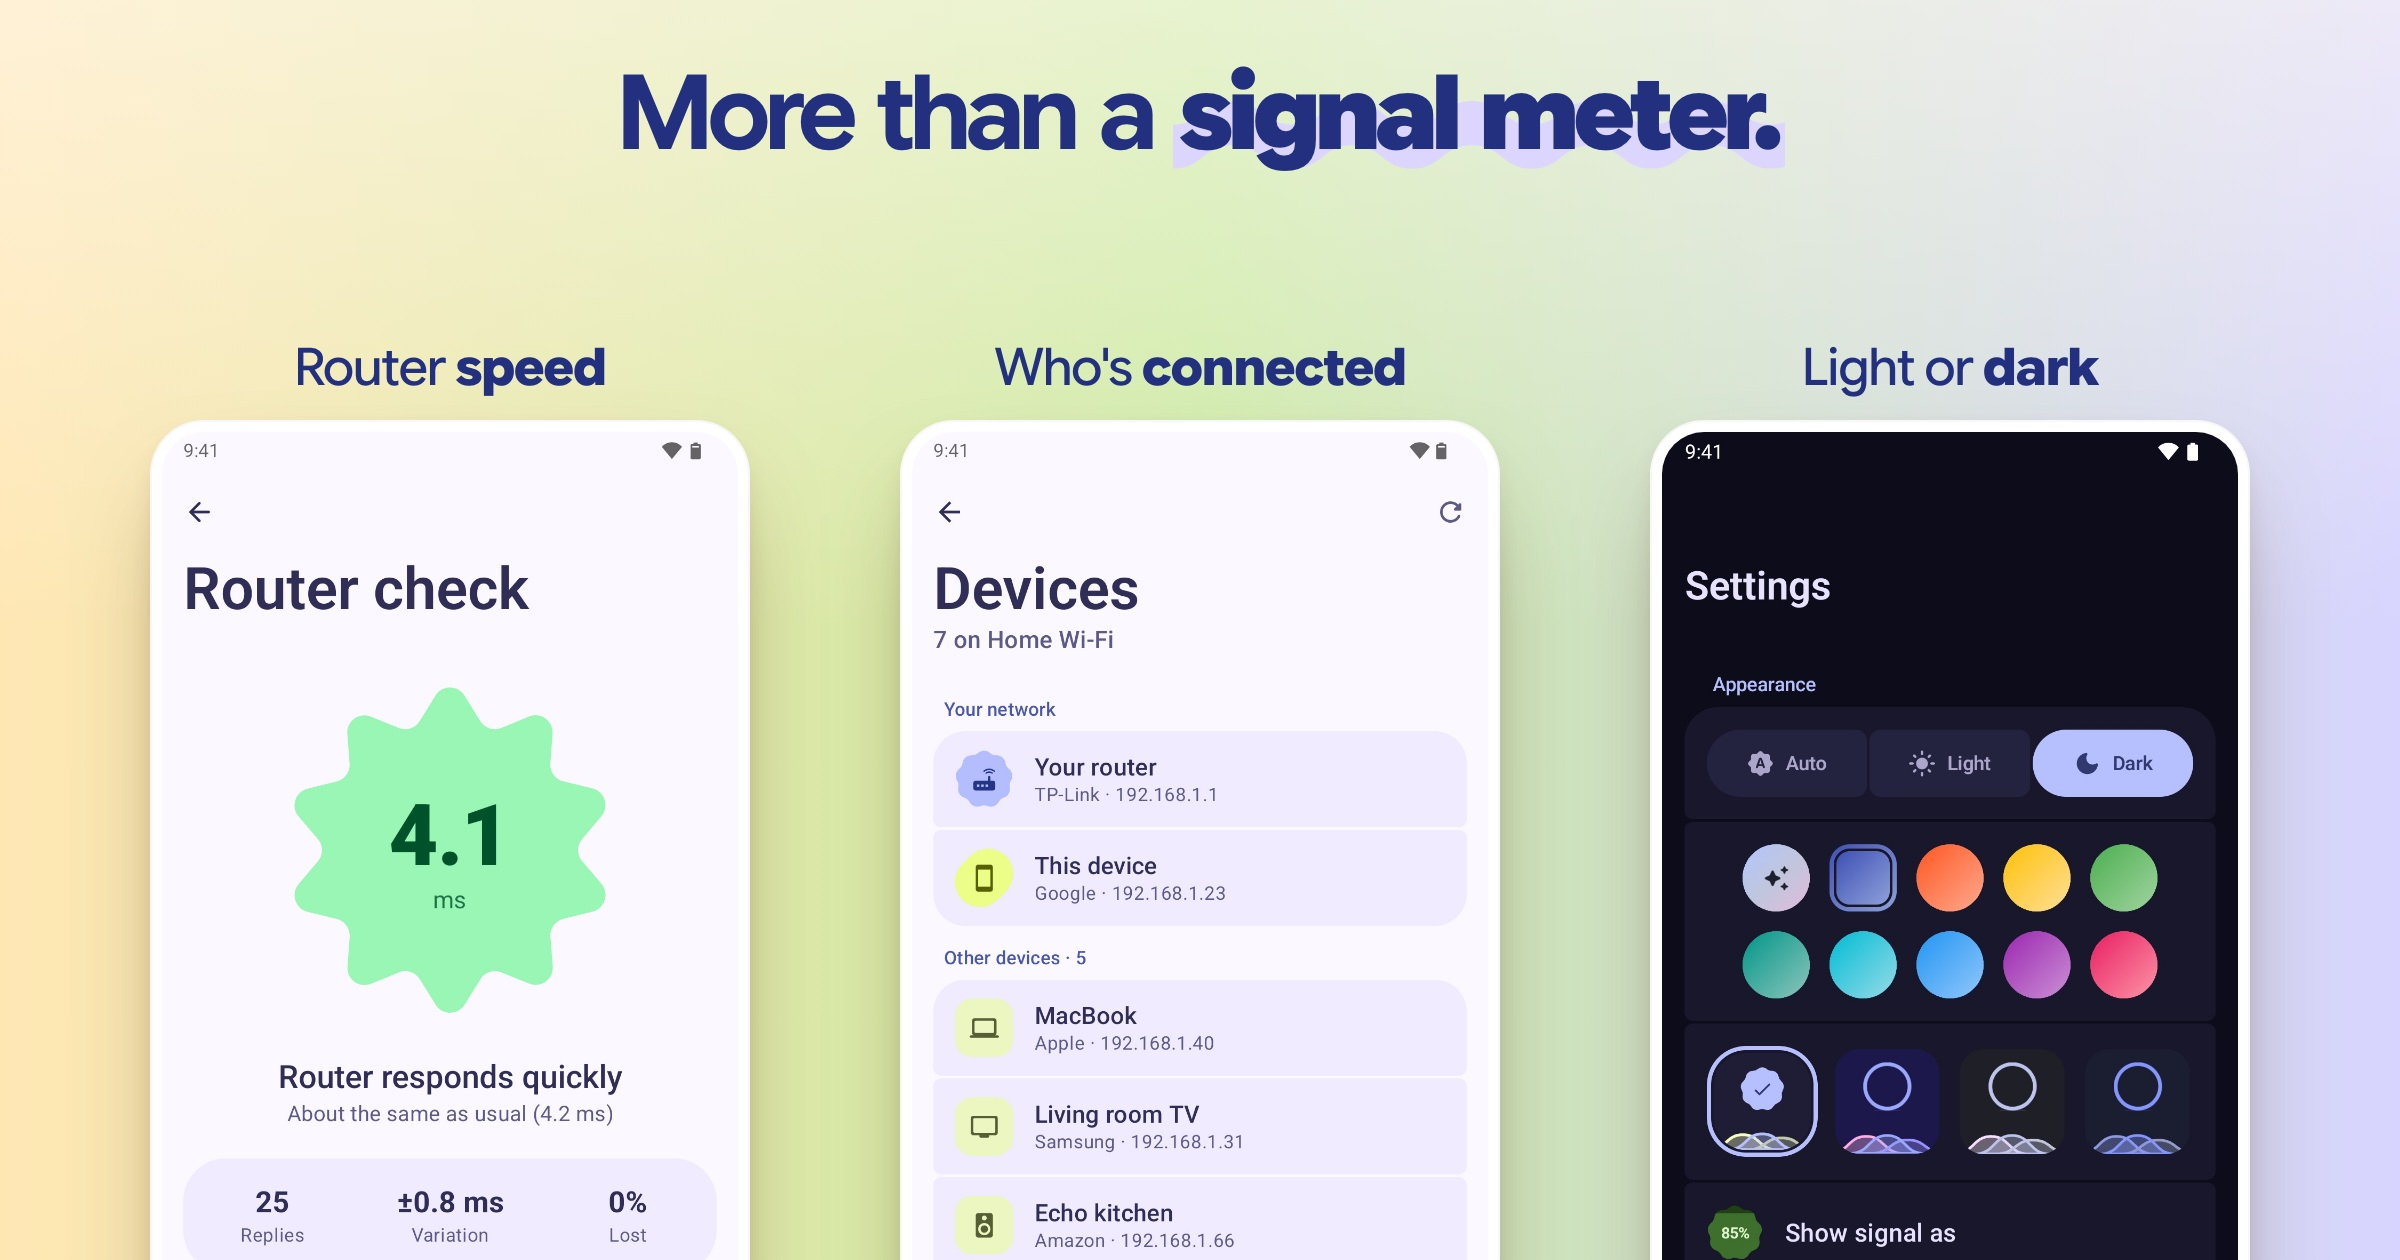
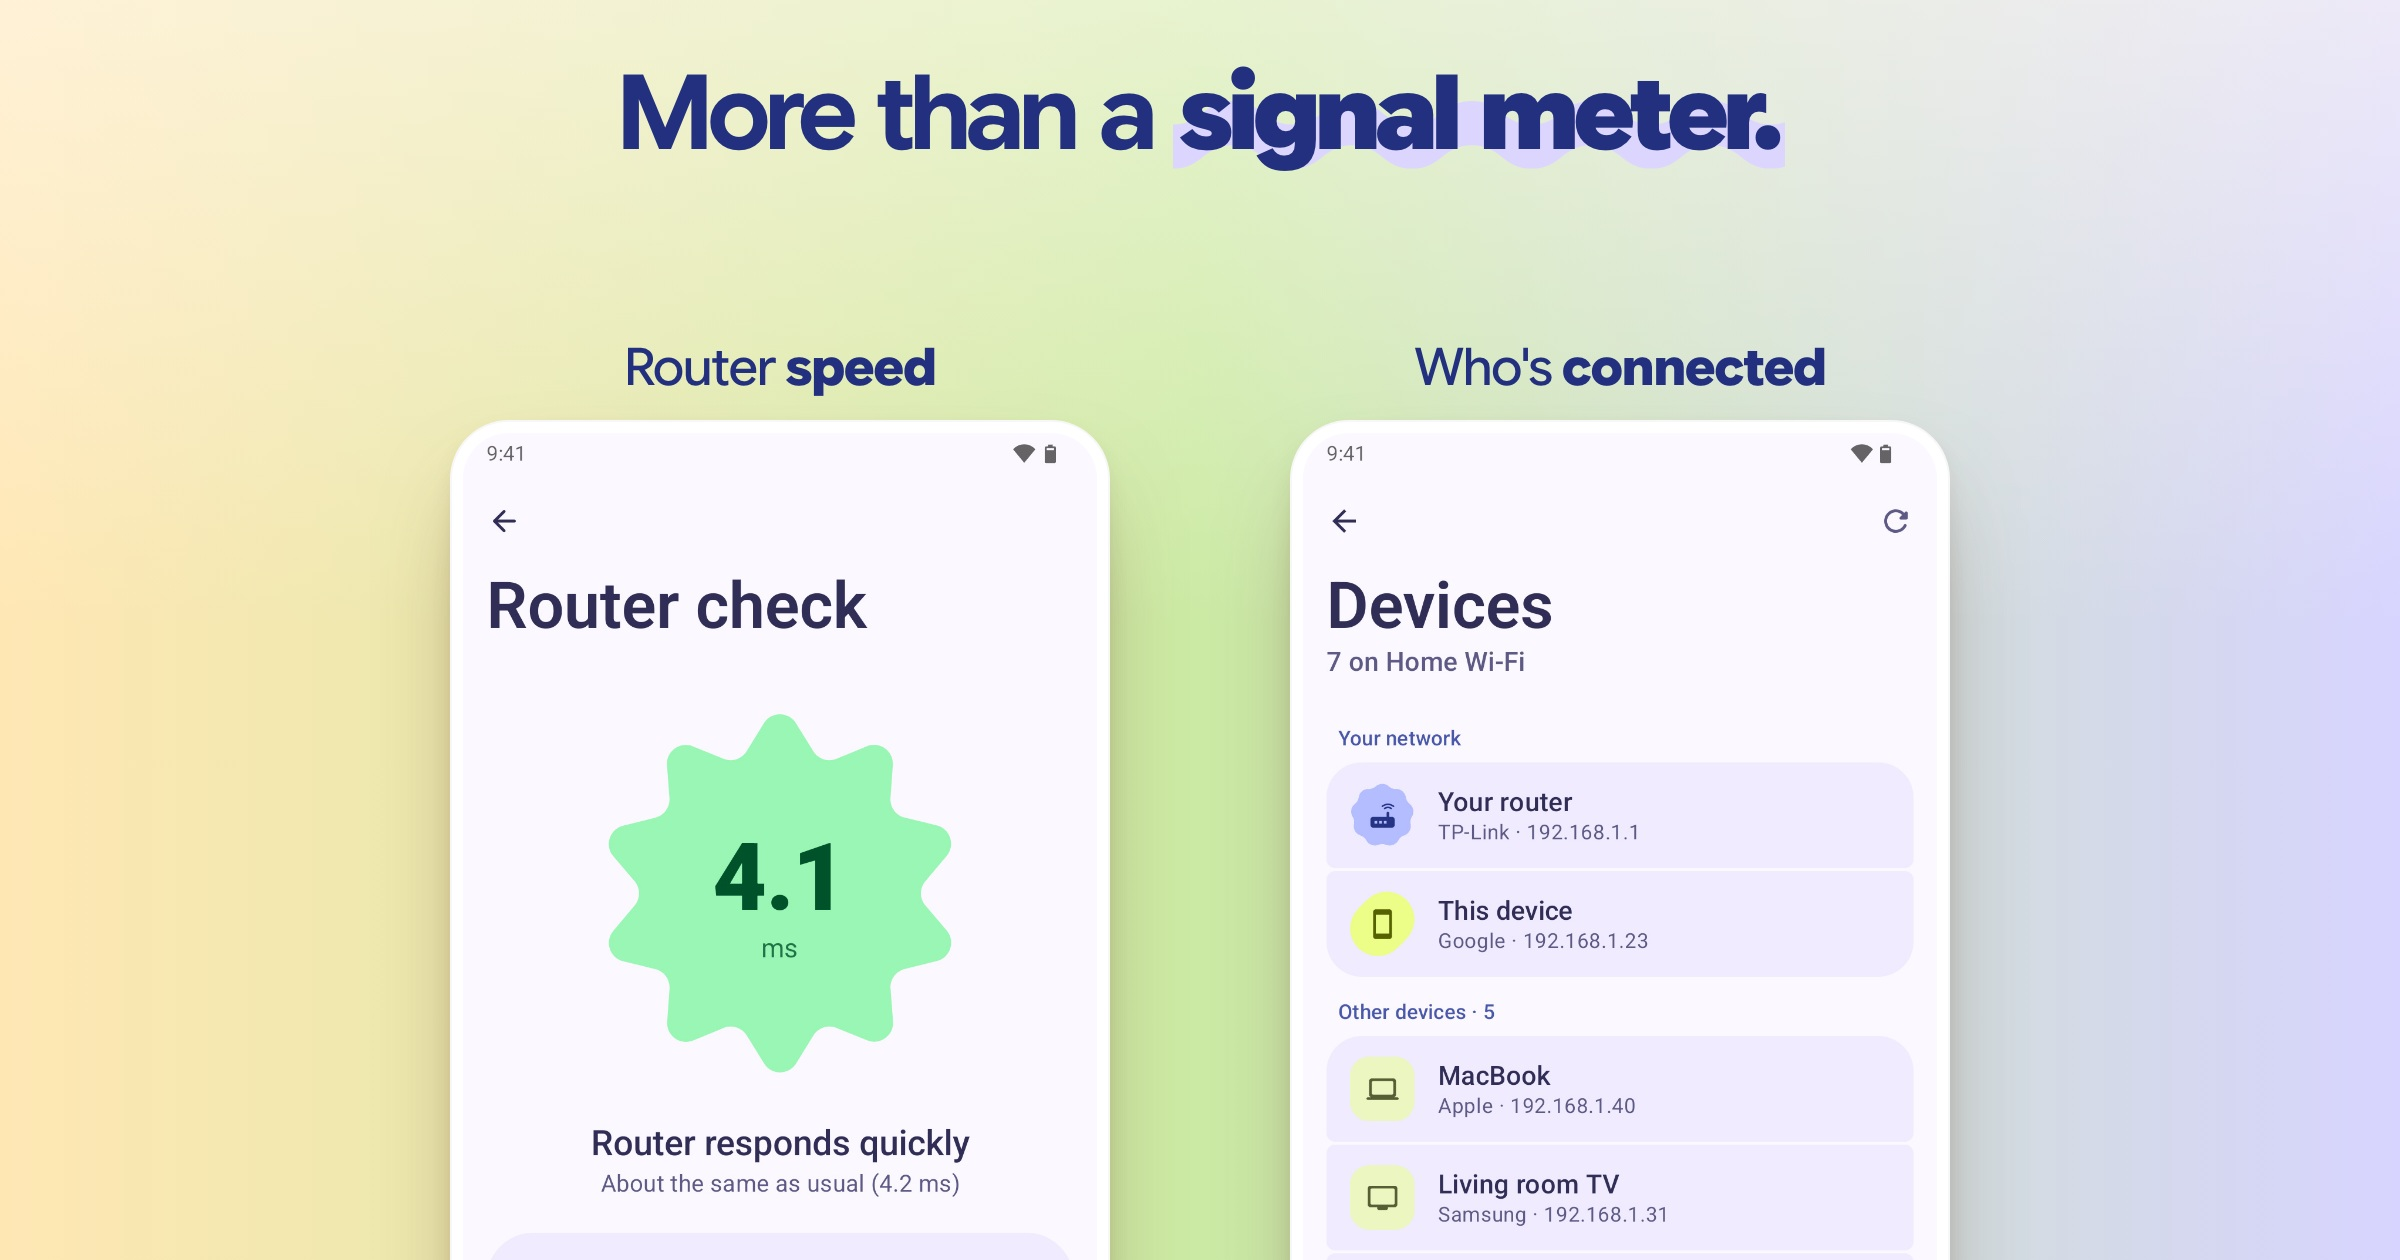
README tools image: two phones, router speed and who's connected

diff --git a/store-listing/theme.css b/store-listing/theme.css
@@ -55,13 +55,12 @@ header p{margin:26px 0 0;font-size:40px;line-height:1.24;font-weight:400;letter-
 .readme .identity{position:absolute;z-index:5;left:0;right:0;top:92px;display:flex;align-items:center;justify-content:center;gap:40px;
   font-size:150px;font-weight:700;letter-spacing:-5px;color:var(--ink)}
 .readme .identity img{width:180px;height:180px;border-radius:48px;display:block;box-shadow:0 24px 50px -20px #22307f66}
-/* Trio: one headline, then three equal phones in an even row, each under a short caption. */
+/* Trio: one headline, then equal phones in an even row, each under a short caption. */
 .readme .trio header{left:0;right:0;top:64px;text-align:center}
 .readme .trio h1{font-size:104px}
-.readme .trio .device{--bezel:12px;--radius:60px;width:600px;top:420px}
-.readme .trio .one{left:150px}
-.readme .trio .two{left:900px}
-.readme .trio .three{left:1650px}
+.readme .trio .device{--bezel:13px;--radius:64px;width:660px;top:420px}
+.readme .trio .one{left:450px}
+.readme .trio .two{left:1290px}
 .readme .trio .device-label{transform:translateY(calc(-100% - 26px));text-align:center;font-size:52px;line-height:1;font-weight:480;letter-spacing:-1px;color:var(--ink)}
 /* Captions stress one word by weight alone; the headline keeps the only wave. */
 .readme .trio .device-label em{background:none;padding:0;margin:0;font-weight:800}

diff --git a/README.md b/README.md
@@ -14,7 +14,7 @@ Every nearby 2.4, 5 and 6 GHz network as a wave, so crowded channels are obvious
 ## Tools
 
 <p align="center">
-  <img src="store-listing/en-US/readme/tools.jpg" width="100%" alt="More than a signal meter: Router check answering in 4.1 ms, the devices connected to your Wi-Fi, and light or dark appearance settings">
+  <img src="store-listing/en-US/readme/tools.jpg" width="100%" alt="More than a signal meter: Router check answering in 4.1 ms, and the devices connected to your Wi-Fi">
 </p>
 
 - **Check your router.** How fast it answers, how steady, and whether replies go missing.
